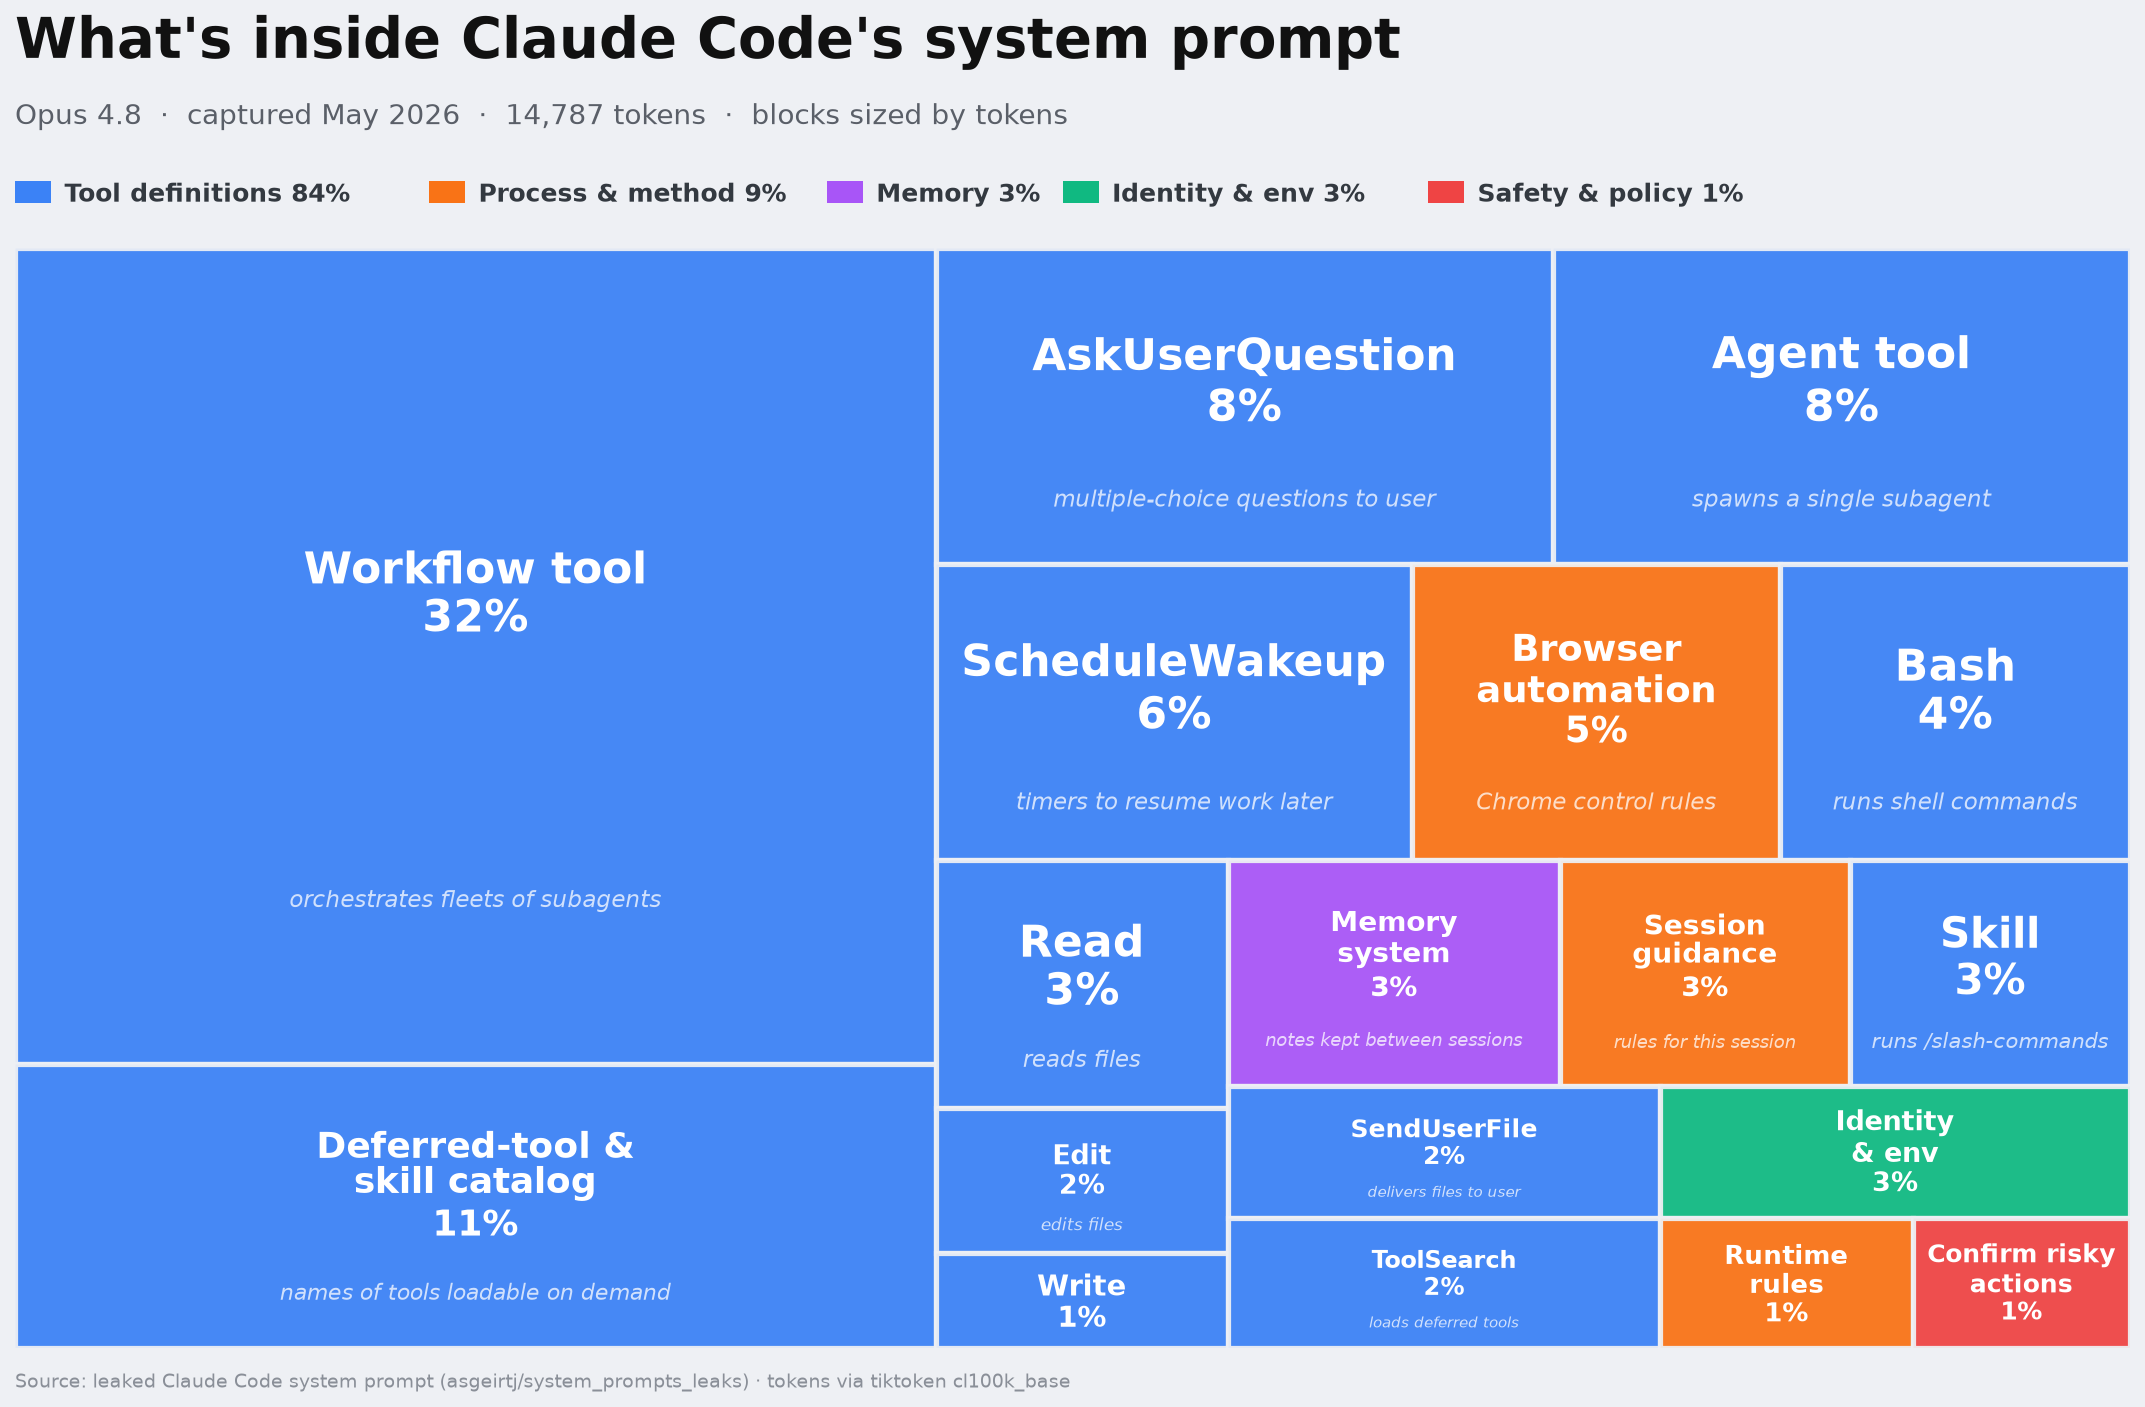
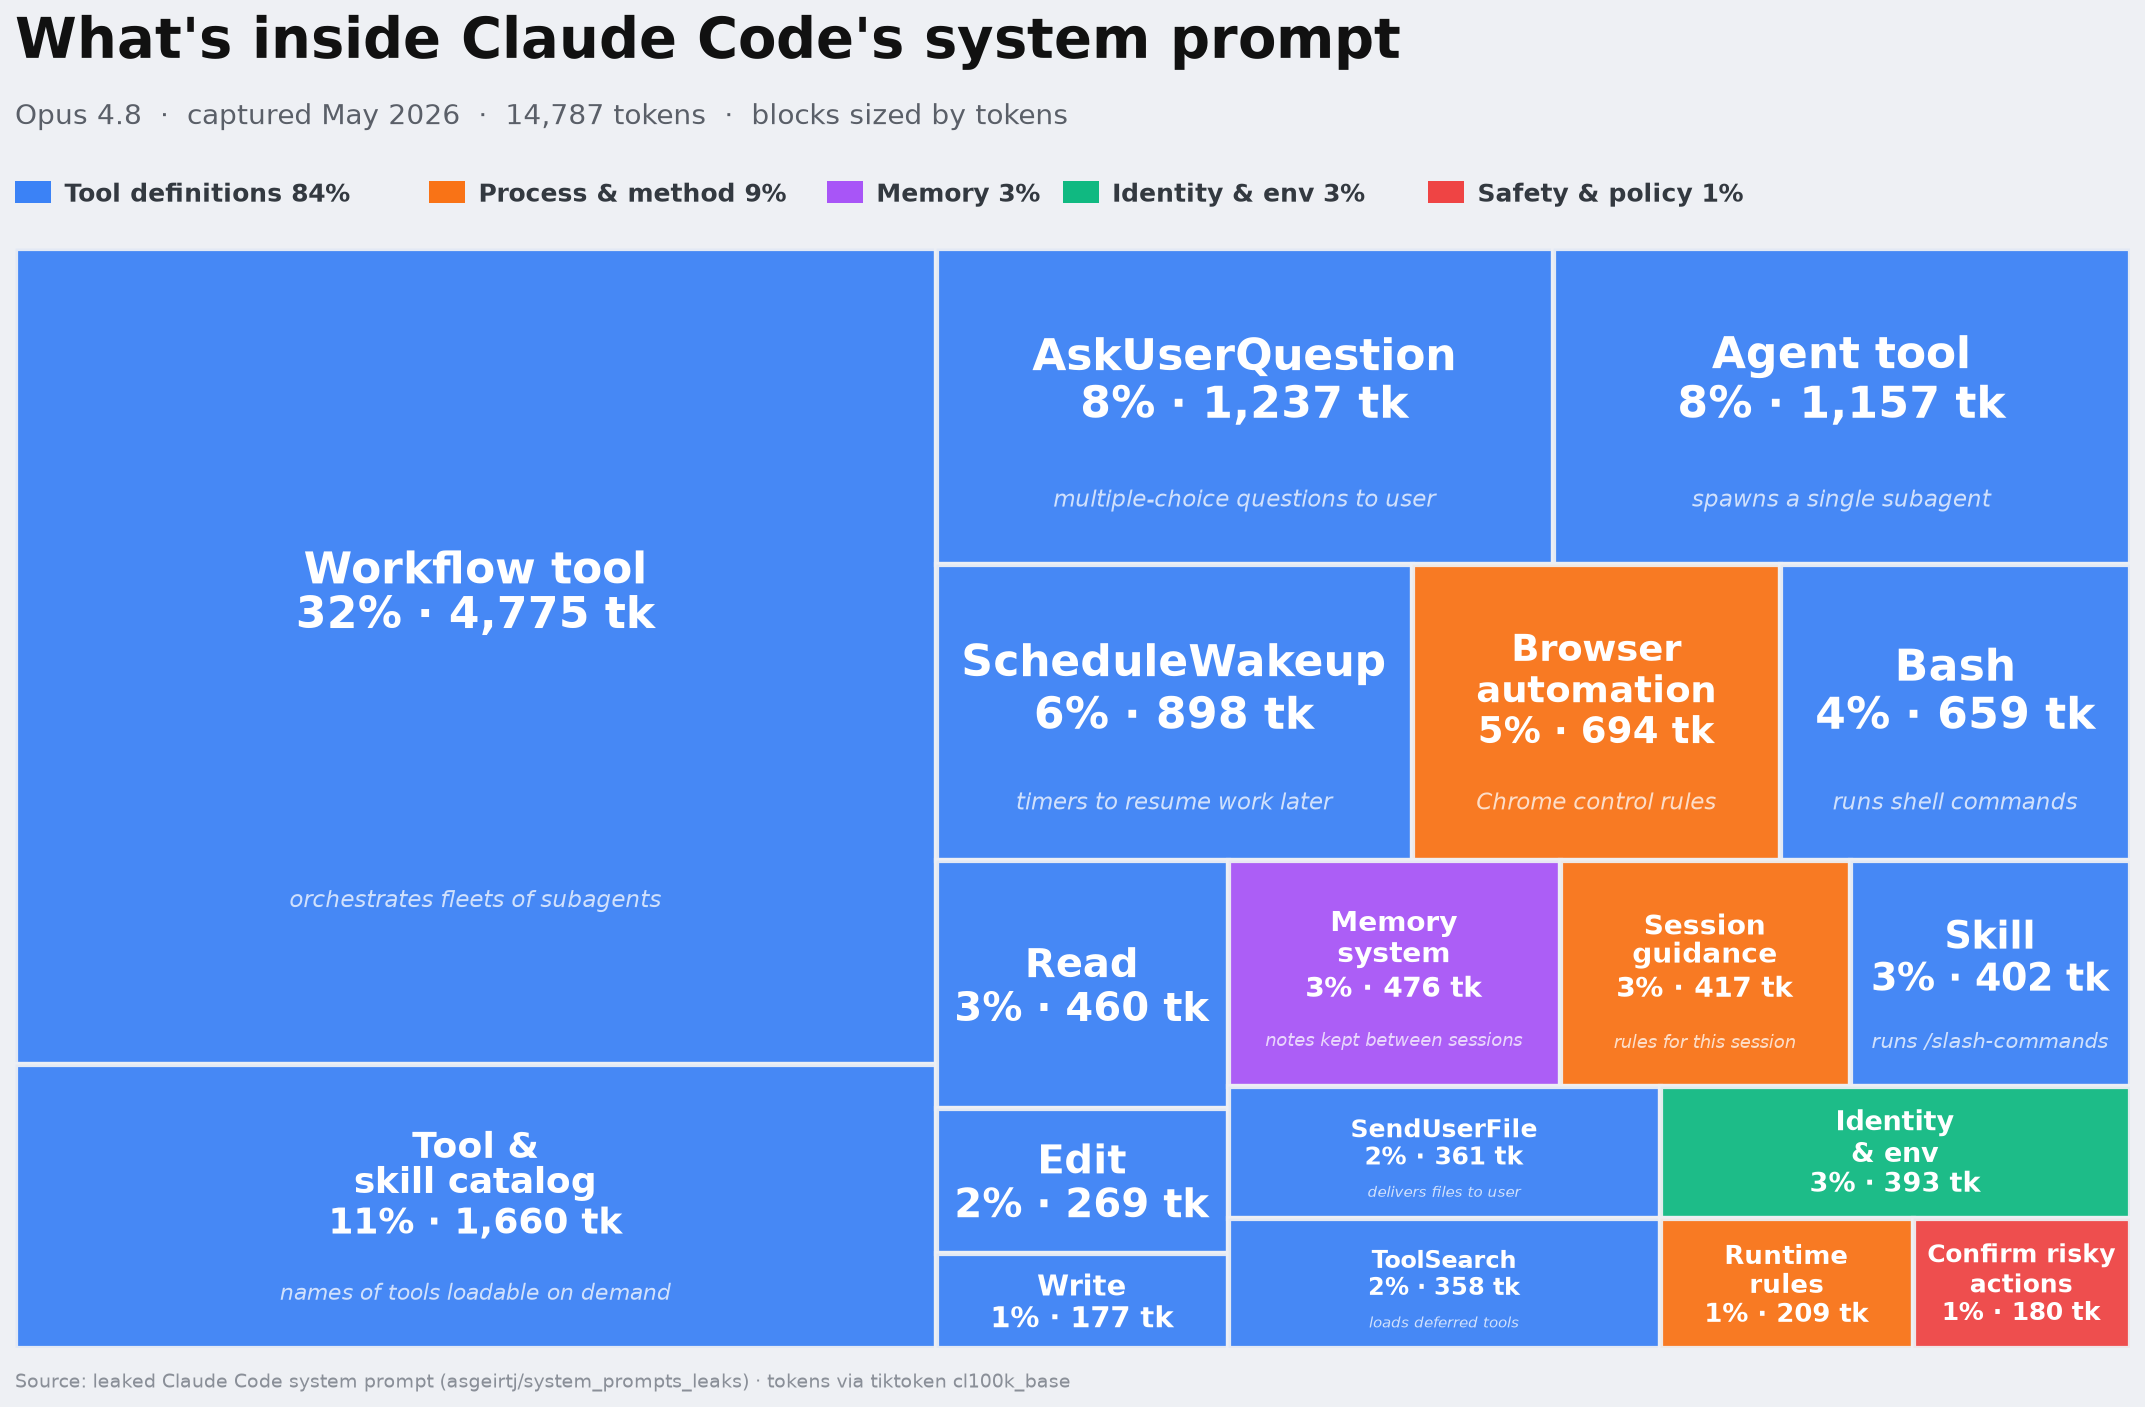
Treemap: token counts on cells, drop 'Deferred' + Read/Edit subtexts

diff --git a/viz_claude_code.py b/viz_claude_code.py
@@ -18,14 +18,14 @@ CATS = {
 # subtitle='' for self-explanatory blocks.
 SEGMENTS = [
     ('Workflow tool',              4775, 'tools',   'orchestrates fleets of subagents'),
-    ('Deferred-tool &\nskill catalog', 1660, 'tools', 'names of tools loadable on demand'),
+    ('Tool &\nskill catalog', 1660, 'tools', 'names of tools loadable on demand'),
     ('AskUserQuestion',            1237, 'tools',   'multiple-choice questions to user'),
     ('Agent tool',                 1157, 'tools',   'spawns a single subagent'),
     ('ScheduleWakeup',              898, 'tools',   'timers to resume work later'),
     ('Browser\nautomation',         694, 'process', 'Chrome control rules'),
     ('Bash',                        659, 'tools',   'runs shell commands'),
-    ('Read',                        460, 'tools',   'reads files'),
-    ('Edit',                        269, 'tools',   'edits files'),
+    ('Read',                        460, 'tools',   ''),
+    ('Edit',                        269, 'tools',   ''),
     ('Write',                       177, 'tools',   ''),
     ('Memory\nsystem',              476, 'memory',  'notes kept between sessions'),
     ('Session\nguidance',           417, 'process', 'rules for this session'),
@@ -76,7 +76,12 @@ for (label, tok, cat, sub), r, col in zip(SEGMENTS, rects, colors):
     area = dx * dy
     pct = tok / total * 100
 
-    title = f"{label}\n{pct:.0f}%" if area > 4.5 else label
+    if area > 8:
+        title = f"{label}\n{pct:.0f}% · {tok:,} tk"
+    elif area > 4.5:
+        title = f"{label}\n{pct:.0f}%"
+    else:
+        title = label
     # decide whether the subtitle fits: need enough vertical room beyond the title
     title_fs = fit_font(title, dx, dy * (0.62 if sub else 1.0))
     show_sub = bool(sub) and area > 2.2
